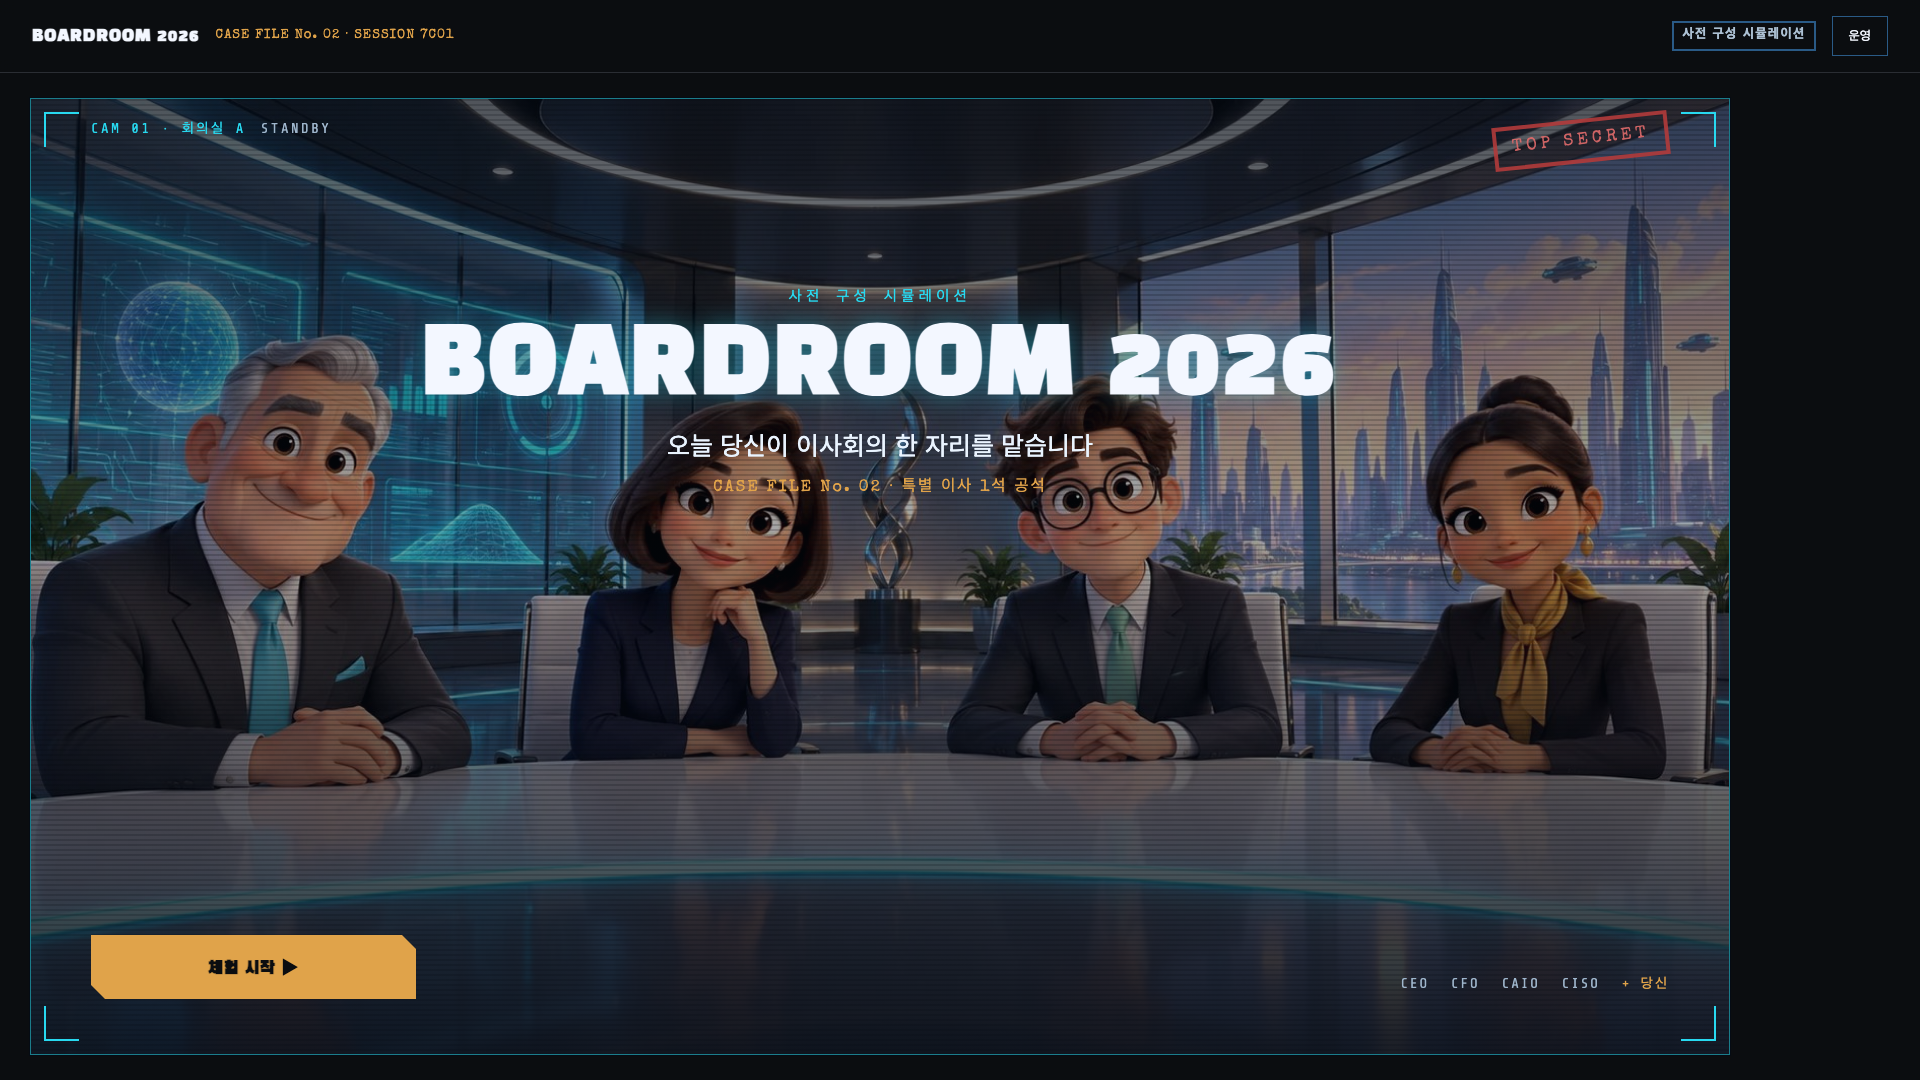
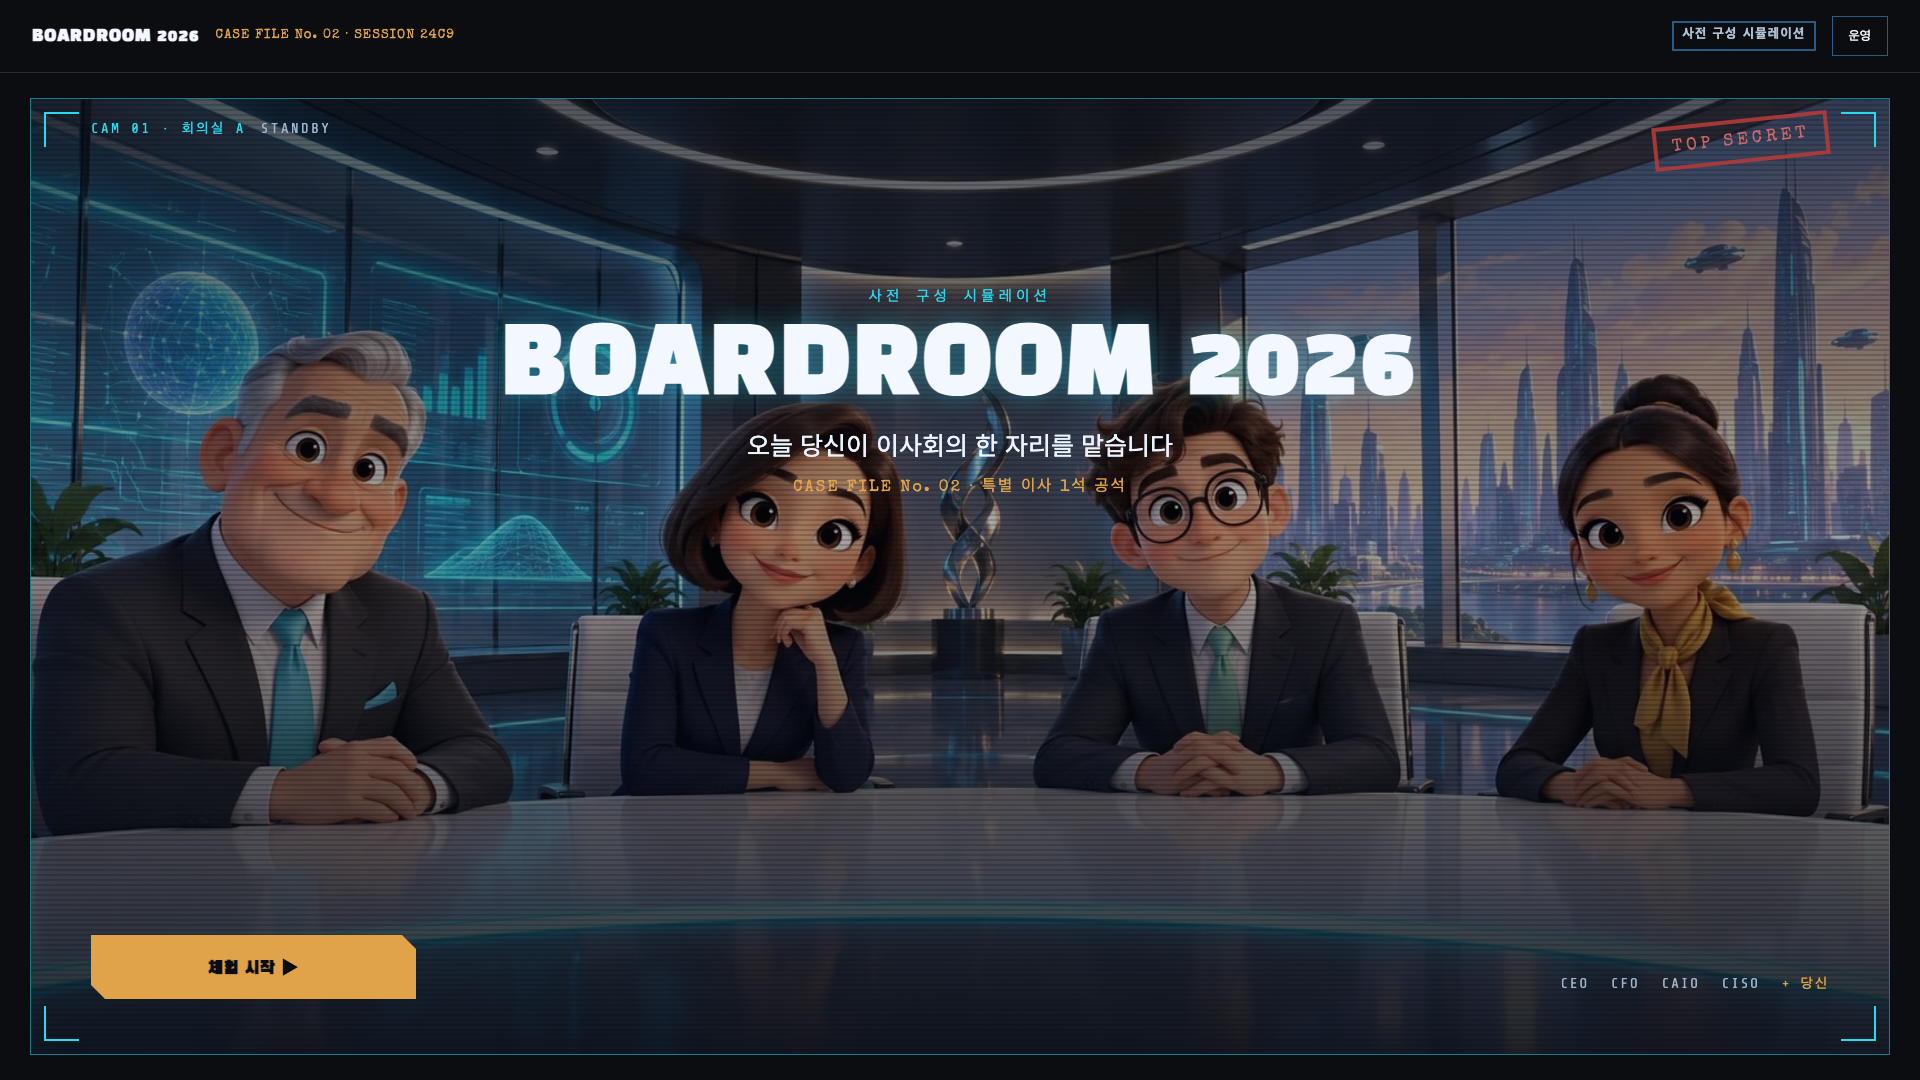
T70·T71 후속: 대기·안건 선택 화면이 1920에서도 시안처럼 좌우 여백만 남기도록 공용 .screen max-width 해제(reviewer must)

diff --git a/src/styles/screens/select.css b/src/styles/screens/select.css
@@ -11,6 +11,9 @@
    margin으로 .app-main의 padding을 정확히 상쇄하고 이 화면 자체가 시안 값(28px 24px/
    20px 16px)으로 다시 여백을 준다(AttractScreen도 같은 구조, attract.css 참고). */
 .select-screen {
+  /* 공용 .screen의 max-width:1760px를 풀어 1920에서도 시안처럼 좌우 24px 여백만 남긴다
+     (reviewer T70·T71 must). */
+  max-width: none;
   position: relative;
   isolation: isolate;
   overflow: hidden;

diff --git a/src/styles/screens/attract.css b/src/styles/screens/attract.css
@@ -10,6 +10,9 @@
    구조). 그 안에 시안의 시안색 글로우 테두리 박스(attract-screen__stage)가 남은
    높이를 꽉 채운다. */
 .attract-screen {
+  /* 공용 .screen의 max-width:1760px를 풀어 1920에서도 시안처럼 좌우 24px 여백만 남긴다
+     (reviewer T70·T71 must). */
+  max-width: none;
   position: relative;
   isolation: isolate;
   overflow: hidden;
